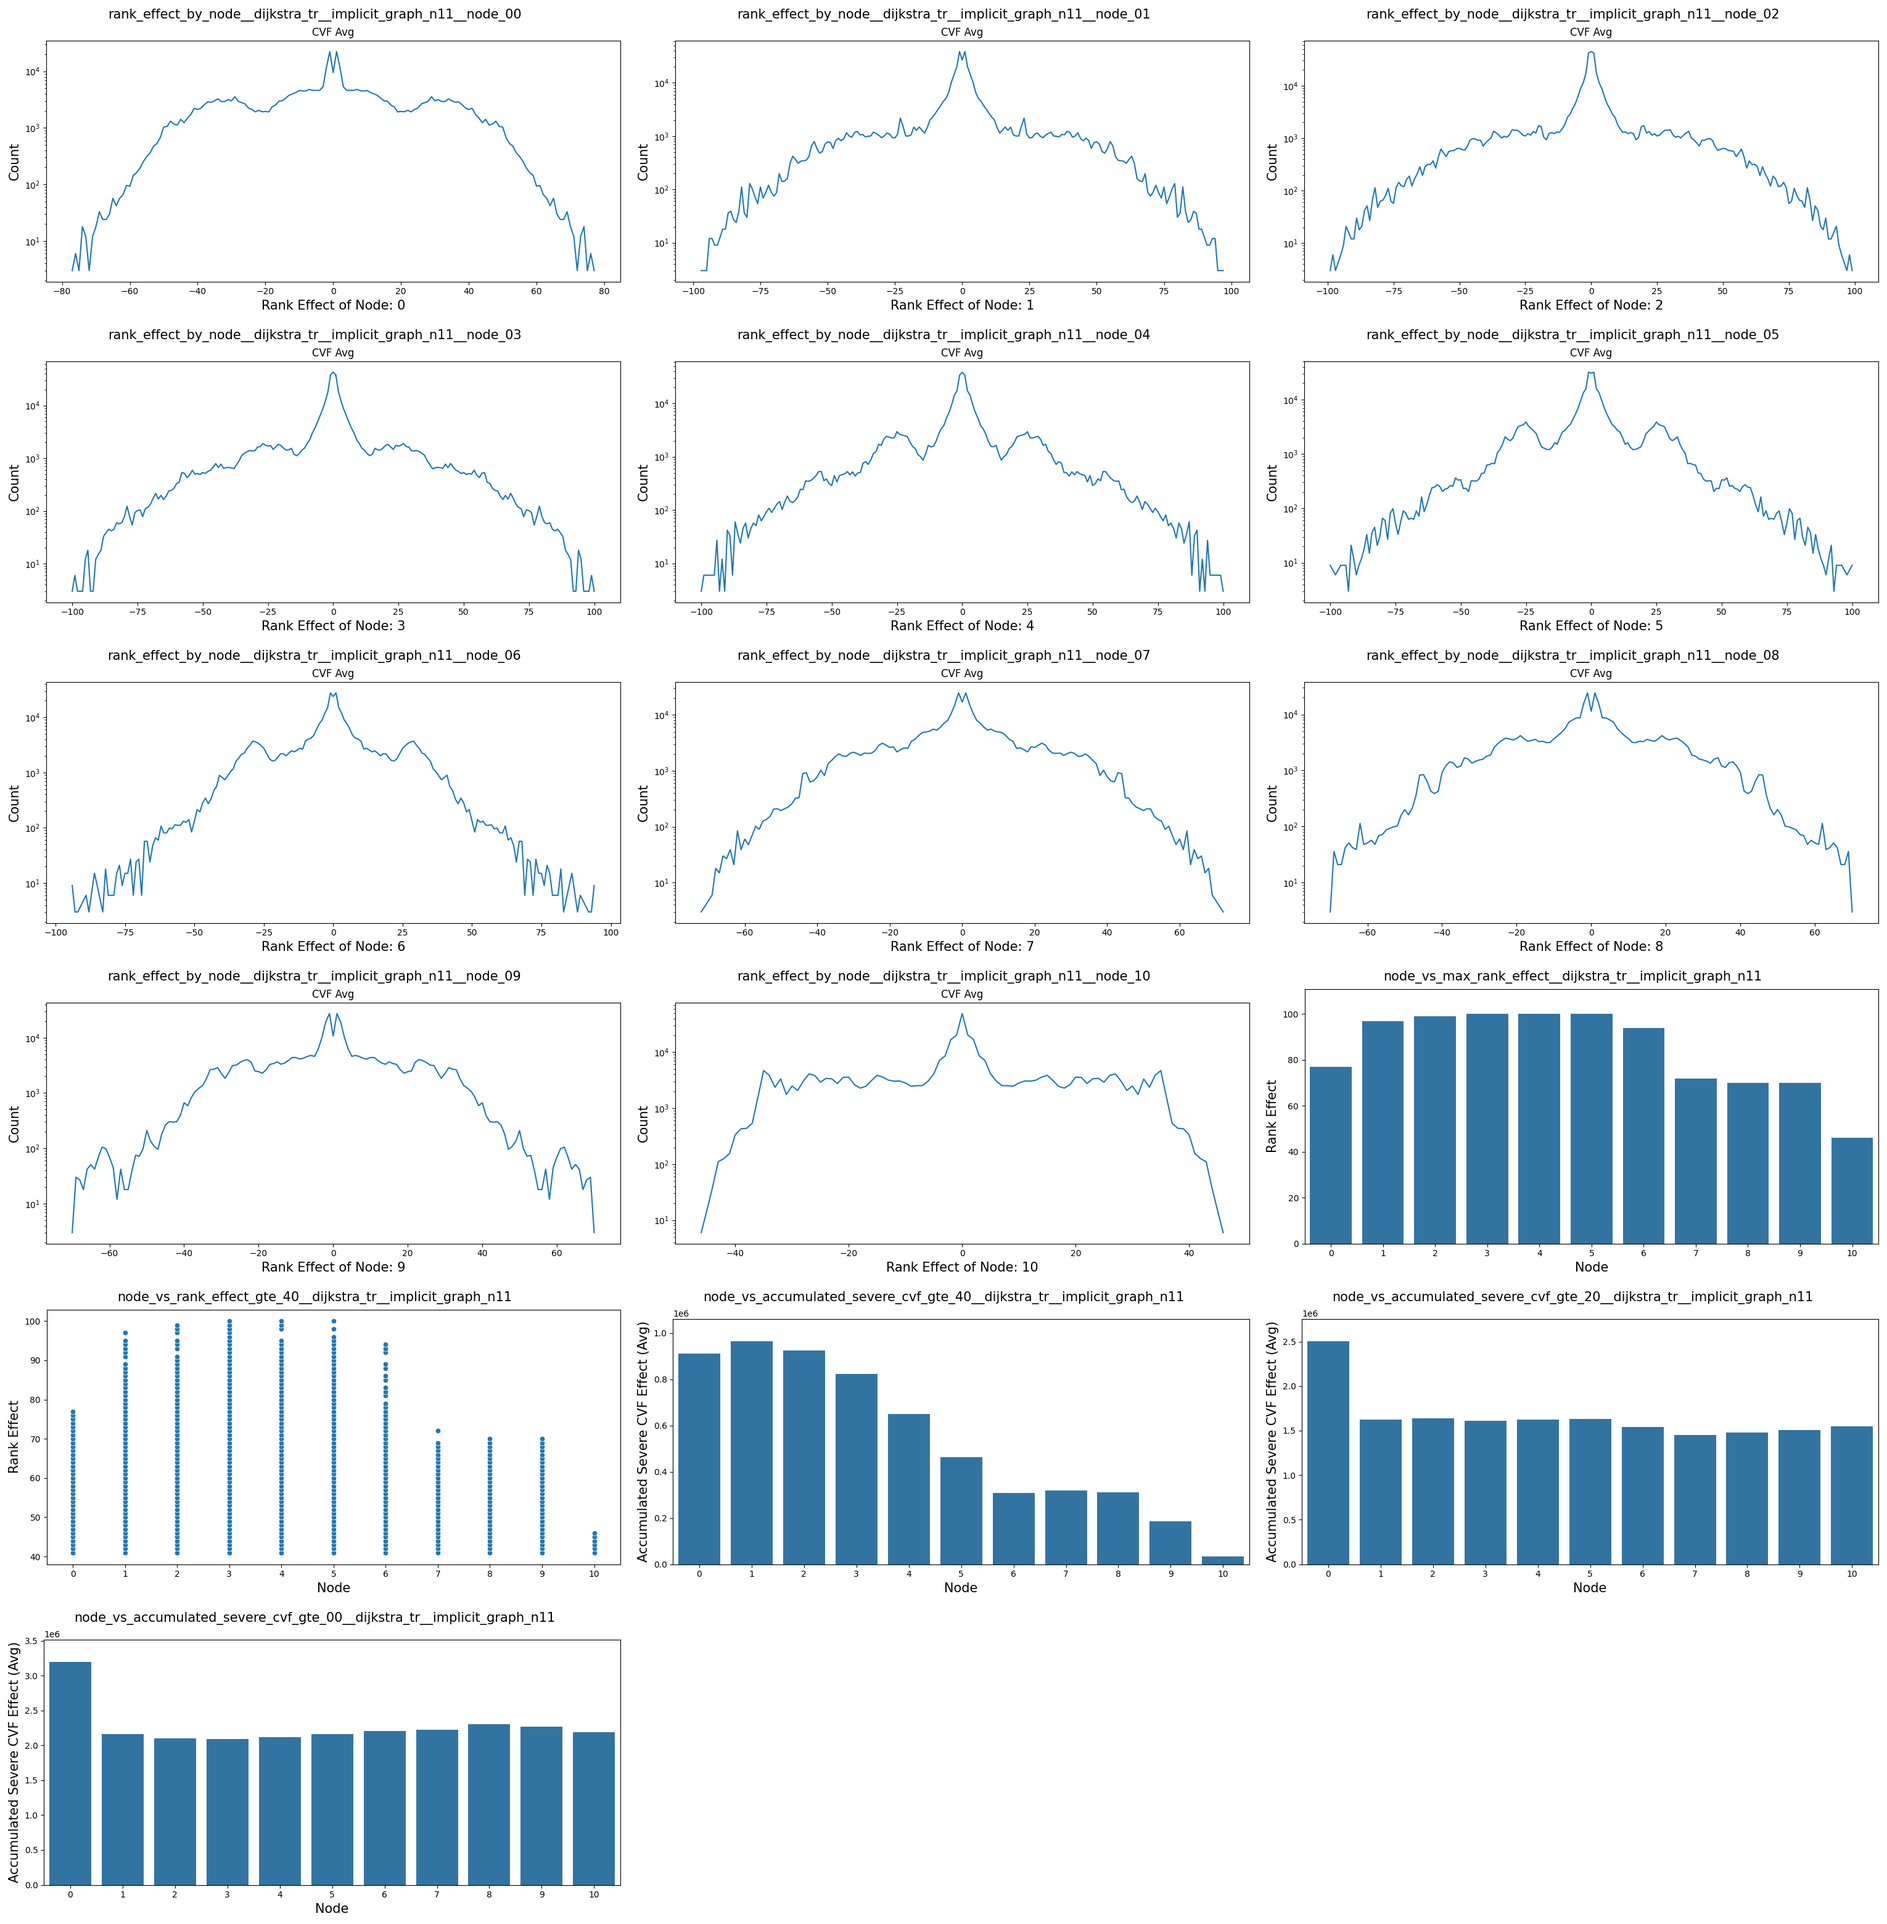
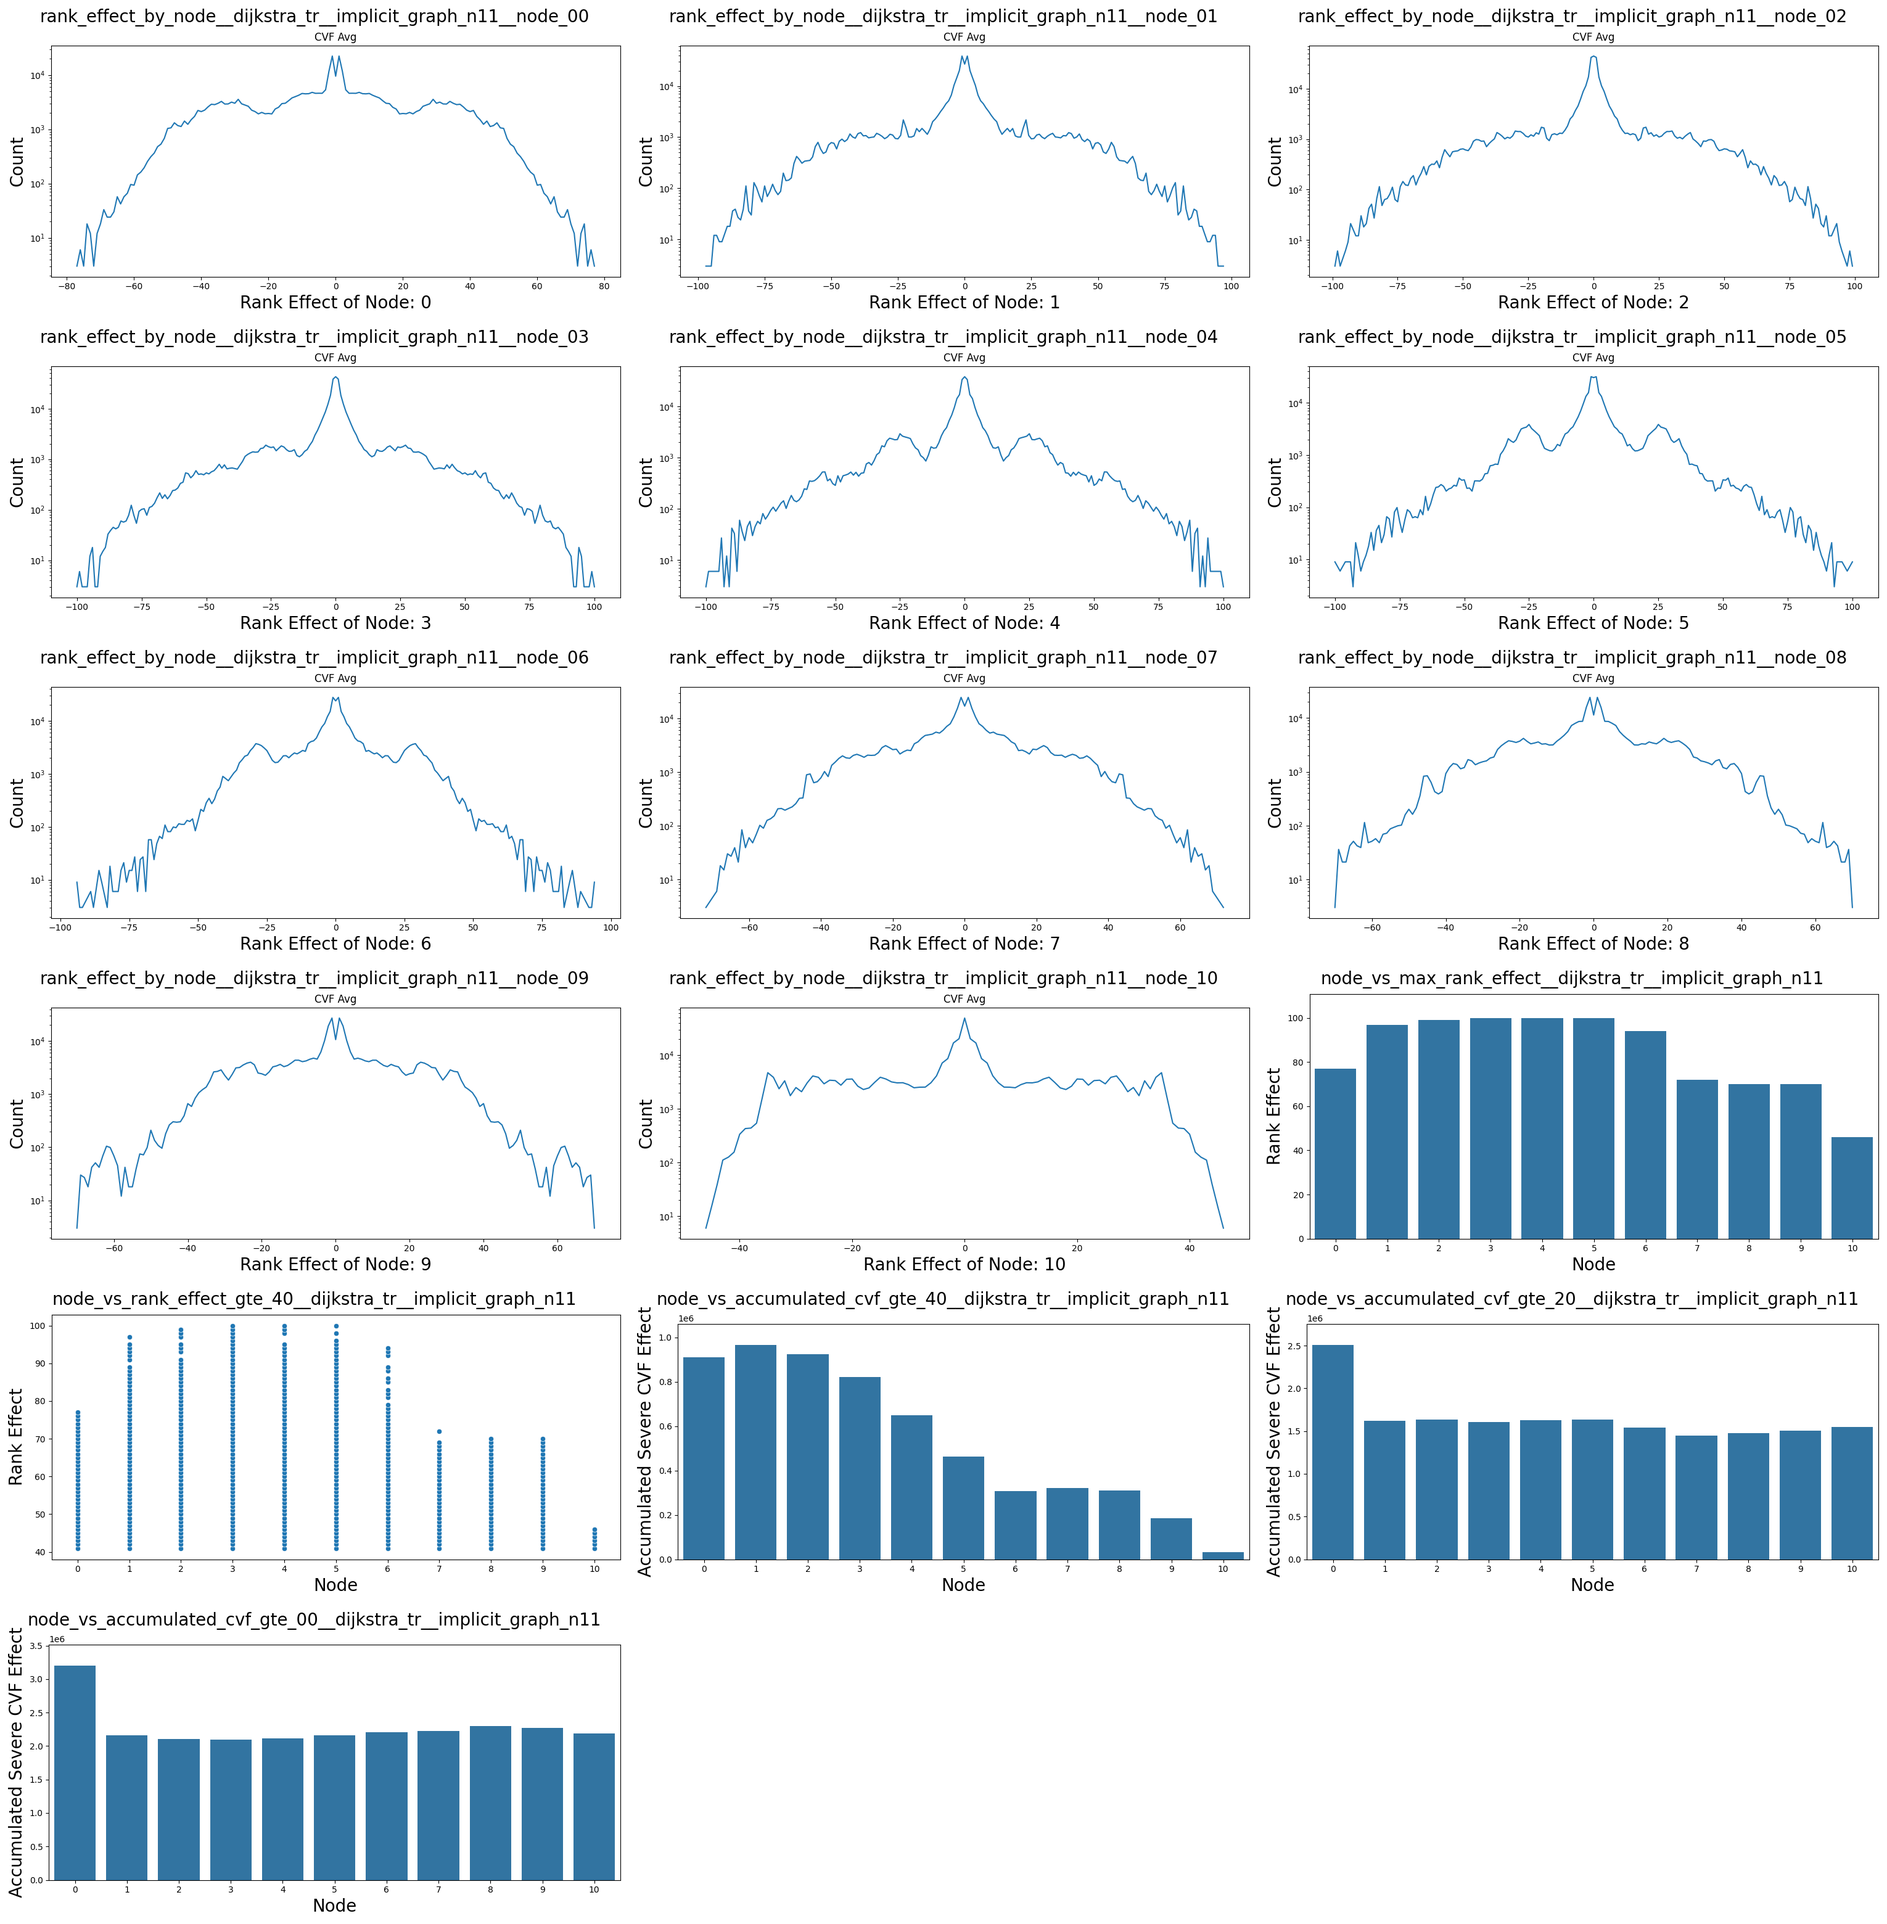
updates

diff --git a/cvf-analysis/analysis/plot_node_vs_accumulated_cvf_effect_w_coff.py b/cvf-analysis/analysis/plot_node_vs_accumulated_cvf_effect_w_coff.py
@@ -32,6 +32,7 @@ def create_plots_dir_if_not_exists():
 
 def plot_node_vs_accumulated_cvf_effect(df, ax, y_max):
     sns.barplot(data=df, x="Node", y="Accumulated Severe CVF Effect (Avg)", ax=ax)
+    ax.set_ylabel("Accumulated Severe CVF Effect")
     ax.set_ylim(bottom=0, top=math.ceil(y_max * 1.1))
     ax.xaxis.label.set_size(fontsize)
     ax.yaxis.label.set_size(fontsize)
@@ -96,7 +97,7 @@ if __name__ == "__main__":
 
             file_name_substr = f"{c_off}" if len(str(c_off)) > 1 else f"0{c_off}"
             file_name = f"node__vs__accumulated_severe_cvf_effect_gte_{file_name_substr}__{analysis_type}__{program}__{graph_name}"
-            fig_title = f"node_vs_accumulated_severe_cvf_gte_{file_name_substr}__{program_label}__{graph_name}"
+            fig_title = f"node_vs_accumulated_cvf_gte_{file_name_substr}__{program_label}__{graph_name}"
             fig.suptitle(fig_title, fontsize=fontsize)
             plot_node_vs_accumulated_cvf_effect(
                 node_vs_accumulated_cvf_effect,

diff --git a/cvf-analysis/plot_graphs.py b/cvf-analysis/plot_graphs.py
@@ -15,7 +15,7 @@ graph_names = [
 ]
 
 planar = False
-fontsize = 15
+fontsize = 20
 
 for gname in graph_names:
     G = nx.read_adjlist(f"graphs/{gname}.txt")
